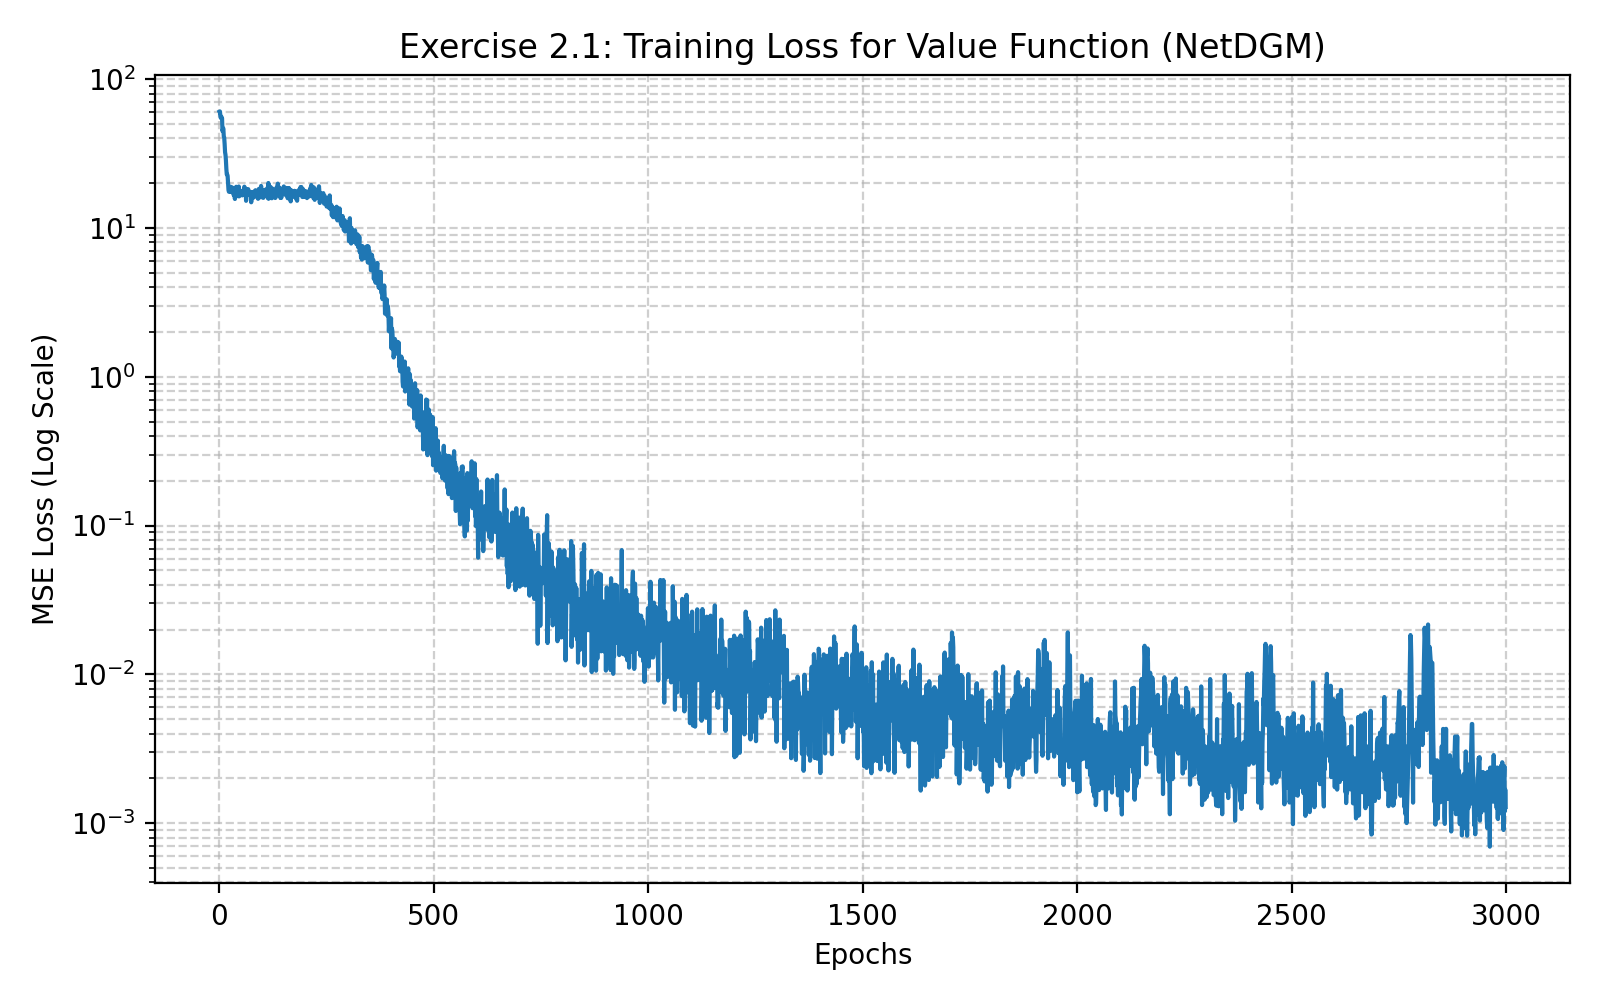
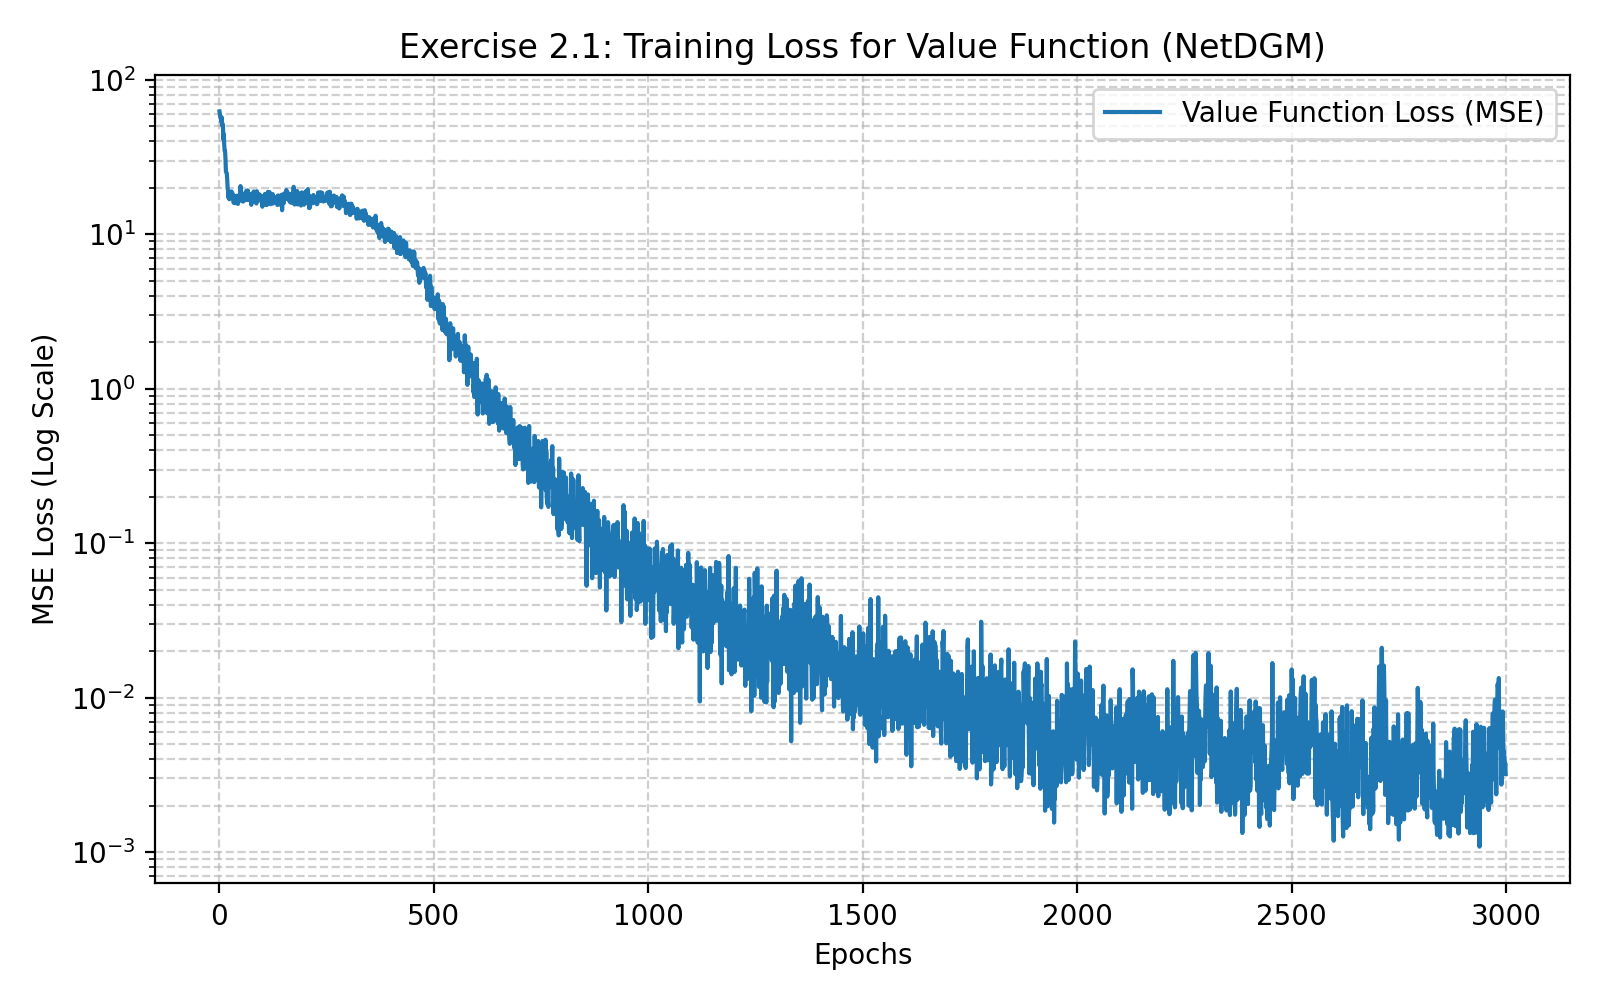
Add test MSE evaluation for Exercise 2 networks

Changed region(s): [[0.0312, 0.062, 1.0, 0.868], [0.0625, 0.062, 0.0938, 0.093]]

diff --git a/src/networks.py b/src/networks.py
@@ -115,6 +115,7 @@ def train_value_network(
     loss_fn = nn.MSELoss()
 
     loss_history = []
+    value_metrics = []   # [epoch, value_loss]
 
     for step in range(1, n_steps + 1):
         t_batch, x_batch, y_batch = sample_value_data(solver, batch_size)
@@ -131,12 +132,16 @@ def train_value_network(
         if step % 200 == 0:
             print(f"step = {step:5d}, loss = {loss.item():.8f}")
 
+        if step % 500 == 0:
+            value_metrics.append([step, loss.item()])
+
     plt.figure(figsize=(8, 5))
     plt.semilogy(loss_history, linewidth=1.5, label="Value Function Loss (MSE)")
     plt.xlabel("Epochs")
     plt.ylabel("MSE Loss (Log Scale)")
     plt.title("Exercise 2.1: Training Loss for Value Function (NetDGM)")
     plt.grid(True, which="both", ls="--", alpha=0.6)
+    plt.legend()
     plt.tight_layout()
     plt.savefig(save_path, dpi=200)
 
@@ -147,7 +152,7 @@ def train_value_network(
 
     print(f"Saved figure to: {save_path}")
 
-    return model, loss_history
+    return model, loss_history, value_metrics
 
 class FFNControl(nn.Module):
     """
@@ -221,11 +226,12 @@ def train_control_network(
     loss_fn = nn.MSELoss()
 
     loss_history = []
+    control_metrics = []   # [epoch, control_loss]
 
     for step in range(1, n_steps + 1):
         t_batch, x_batch, y_batch = sample_control_data(solver, batch_size)
 
-        pred = model(t_batch, x_batch)     # (batch, 2)
+        pred = model(t_batch, x_batch)
         loss = loss_fn(pred, y_batch)
 
         optimizer.zero_grad()
@@ -237,12 +243,16 @@ def train_control_network(
         if step % 200 == 0:
             print(f"[control] step = {step:5d}, loss = {loss.item():.8f}")
 
+        if step % 500 == 0:
+            control_metrics.append([step, loss.item()])
+
     plt.figure(figsize=(8, 5))
     plt.semilogy(loss_history, linewidth=1.5, label="Control Loss (MSE)")
     plt.xlabel("Epochs")
     plt.ylabel("MSE Loss (Log Scale)")
     plt.title("Exercise 2.2: Training Loss for Markov Control (FFN)")
     plt.grid(True, which="both", ls="--", alpha=0.6)
+    plt.legend()
     plt.tight_layout()
     plt.savefig(save_path, dpi=200)
 
@@ -253,11 +263,60 @@ def train_control_network(
 
     print(f"Saved figure to: {save_path}")
 
-    return model, loss_history
+    return model, loss_history, control_metrics
 
+def print_ex2_metrics_table(metrics_rows):
+    """
+    Print Exercise 2 metrics table in terminal only.
+
+    Each row should be:
+    [epoch, value_loss, control_loss]
+    """
+    print("\nExercise 2 metrics table")
+    print(f"{'Epoch':>8} {'Value Loss':>15} {'Control Loss':>15}")
+
+    for row in metrics_rows:
+        epoch = int(row[0])
+        value_loss = row[1]
+        control_loss = row[2]
+
+        print(
+            f"{epoch:8d} "
+            f"{value_loss:15.6e} "
+            f"{control_loss:15.6e}"
+        )
+
+def evaluate_value_test_mse(model, solver, n_test=2000):
+    """
+    Evaluate test MSE for the value network on freshly sampled points.
+    """
+    model.eval()
+    loss_fn = nn.MSELoss()
+
+    with torch.no_grad():
+        t_test, x_test, y_test = sample_value_data(solver, n_test)
+        pred_test = model(t_test, x_test)
+        test_mse = loss_fn(pred_test, y_test).item()
+
+    return test_mse
+
+
+def evaluate_control_test_mse(model, solver, n_test=2000):
+    """
+    Evaluate test MSE for the control network on freshly sampled points.
+    """
+    model.eval()
+    loss_fn = nn.MSELoss()
+
+    with torch.no_grad():
+        t_test, x_test, y_test = sample_control_data(solver, n_test)
+        pred_test = model(t_test, x_test)
+        test_mse = loss_fn(pred_test, y_test).item()
+
+    return test_mse
 
 if __name__ == "__main__":
-    train_value_network(
+    value_model, value_loss_history, value_metrics = train_value_network(
         save_path="figures/ex2_1_value_loss.png",
         n_steps=3000,
         batch_size=512,
@@ -266,7 +325,7 @@ if __name__ == "__main__":
         show_plot=True
     )
 
-    train_control_network(
+    control_model, control_loss_history, control_metrics = train_control_network(
         save_path="figures/ex2_2_control_loss.png",
         n_steps=3000,
         batch_size=512,
@@ -275,5 +334,25 @@ if __name__ == "__main__":
         show_plot=True
     )
 
+    # merge the two metric lists by epoch
+    metrics_rows = []
+    n_rows = min(len(value_metrics), len(control_metrics))
 
-# %%
+    for i in range(n_rows):
+        epoch_v, loss_v = value_metrics[i]
+        epoch_c, loss_c = control_metrics[i]
+
+        if epoch_v == epoch_c:
+            metrics_rows.append([epoch_v, loss_v, loss_c])
+
+    print_ex2_metrics_table(metrics_rows)
+
+    # small test MSE evaluation
+    solver = build_test_solver()
+
+    value_test_mse = evaluate_value_test_mse(value_model, solver, n_test=2000)
+    control_test_mse = evaluate_control_test_mse(control_model, solver, n_test=2000)
+
+    print("\nExercise 2 test MSE")
+    print(f"Value network test MSE   = {value_test_mse:.6e}")
+    print(f"Control network test MSE = {control_test_mse:.6e}")

diff --git a/src/monte_carlo.py b/src/monte_carlo.py
@@ -106,6 +106,23 @@ def compute_abs_error(solver, t0, x0, N, n_paths, seed=None):
 
     return abs(mc_value - true_value)
 
+def print_mc_sample_table(rows):
+    """
+    Print a Monte Carlo sample-size table in terminal only.
+
+    Each row should contain:
+    [n_paths, mc_value, abs_error]
+    """
+    print("\nExercise 1.2 Monte Carlo sample-size table")
+    print(f"{'MC Samples':>12} {'MC Value':>15} {'Absolute Error':>18}")
+
+    for row in rows:
+        n_paths = int(row[0])
+        mc_value = row[1]
+        abs_error = row[2]
+
+        print(f"{n_paths:12d} {mc_value:15.6f} {abs_error:18.6e}")
+
 
 def build_test_solver():
     """
@@ -201,6 +218,41 @@ def time_step_convergence_test(save_path="figures/mc_time_convergence.png", show
 
     print(f"Saved figure to: {save_path}")
 
+def sample_convergence_table():
+    """
+    Print a table for Monte Carlo sample-size convergence:
+    MC Samples | MC Value | Absolute Error
+    """
+    solver = build_test_solver()
+
+    t0 = 0.0
+    x0 = np.array([1.0, 0.5])
+
+    N = 5000
+    n_paths_list = [10, 20, 40, 80, 150, 300, 600, 1200, 2500, 5000, 10000, 20000, 40000, 60000, 80000, 100000]
+
+    true_value = solver.value_function(
+        torch.tensor([t0], dtype=torch.float32),
+        torch.tensor(x0[None, None, :], dtype=torch.float32)
+    ).item()
+
+    rows = []
+
+    for n_paths in n_paths_list:
+        mc_value = simulate_cost_explicit(
+            solver=solver,
+            t0=t0,
+            x0=x0,
+            N=N,
+            n_paths=n_paths,
+            seed=123
+        )
+
+        abs_error = abs(mc_value - true_value)
+        rows.append([n_paths, mc_value, abs_error])
+
+    print_mc_sample_table(rows)
+
 
 def sample_convergence_test(save_path="figures/mc_sample_convergence.png", show_plot=True):
     """
@@ -263,3 +315,4 @@ def run_all_mc_experiments(show_plots=True):
 
 if __name__ == "__main__":
     run_all_mc_experiments(show_plots=True)
+    sample_convergence_table()

diff --git a/README.md b/README.md
@@ -40,10 +40,27 @@ python src/monte_carlo.py
 
 This will:
 
+This will:
+
 run a basic Monte Carlo test
 generate and save the following figures:
 figures/mc_time_convergence.png
 figures/mc_sample_convergence.png
+print convergence results in the terminal for:
+time-step discretisation
+Monte Carlo sample-size convergence
+
+Current setup:
+
+the error is defined as the absolute difference between the Monte Carlo estimate and the benchmark value from Exercise 1.1
+the time-step convergence test varies N
+the sample-size convergence test varies the number of Monte Carlo paths n_paths
+
+Typical terminal output includes:
+
+N = ..., abs error = ...
+n_paths = ..., abs error = ...
+
 Exercise 2.1
 
 Run:
@@ -59,16 +76,50 @@ figures/ex2_2_control_loss.png
 
 Current setup:
 
-input dimension = 3 for (t, x1, x2)
-output dimension = 2 for the control
-network = 2 hidden layers, width 100
-optimizer = Adam
-Notes
+terminal time: T = 1
+training samples:
+t ~ Uniform([0, 1])
+x ~ Uniform([-3, 3] x [-3, 3])
+network type: NetDGM-style model
+hidden size: 100
+optimizer: Adam
+loss: mean squared error (MSE)
 
-This README will be updated as more exercises are completed.
+Exercise 2.2
 
+Run:
+python src/networks.py
 
-### Exercise 3.1
+This will also:
+
+sample training data from the benchmark optimal control in Exercise 1.1
+train a feedforward neural network for the optimal Markov control
+save the training loss figure:
+figures/ex2_2_control_loss.png
+
+Current setup:
+
+input dimension: 3 for (t, x1, x2)
+output dimension: 2 for the control
+network type: feedforward neural network
+architecture: 2 hidden layers, width 100
+optimizer: Adam
+loss: mean squared error (MSE)
+Exercise 2 terminal outputs
+
+In addition to the saved figures, the script also prints the following in the terminal:
+
+a training metrics table at 500-epoch intervals:
+Epoch
+Value Loss
+Control Loss
+a small test MSE summary for both networks:
+Value network test MSE
+Control network test MSE
+
+This is used to check that the trained networks not only reduce training loss, but also approximate the benchmark value function and optimal control on newly sampled test points.
+
+Exercise 3.1
 Run:
 ```bash
 python src/dgm.py
@@ -76,13 +127,6 @@ python src/dgm.py
 This will:
 
 train a DGM-style neural network to solve the linear PDE under the fixed control 
-𝛼
-=
-(
-1
-,
-1
-)
 α=(1,1)
 save the DGM training loss figure:
 figures/ex3_1_dgm_loss.png
